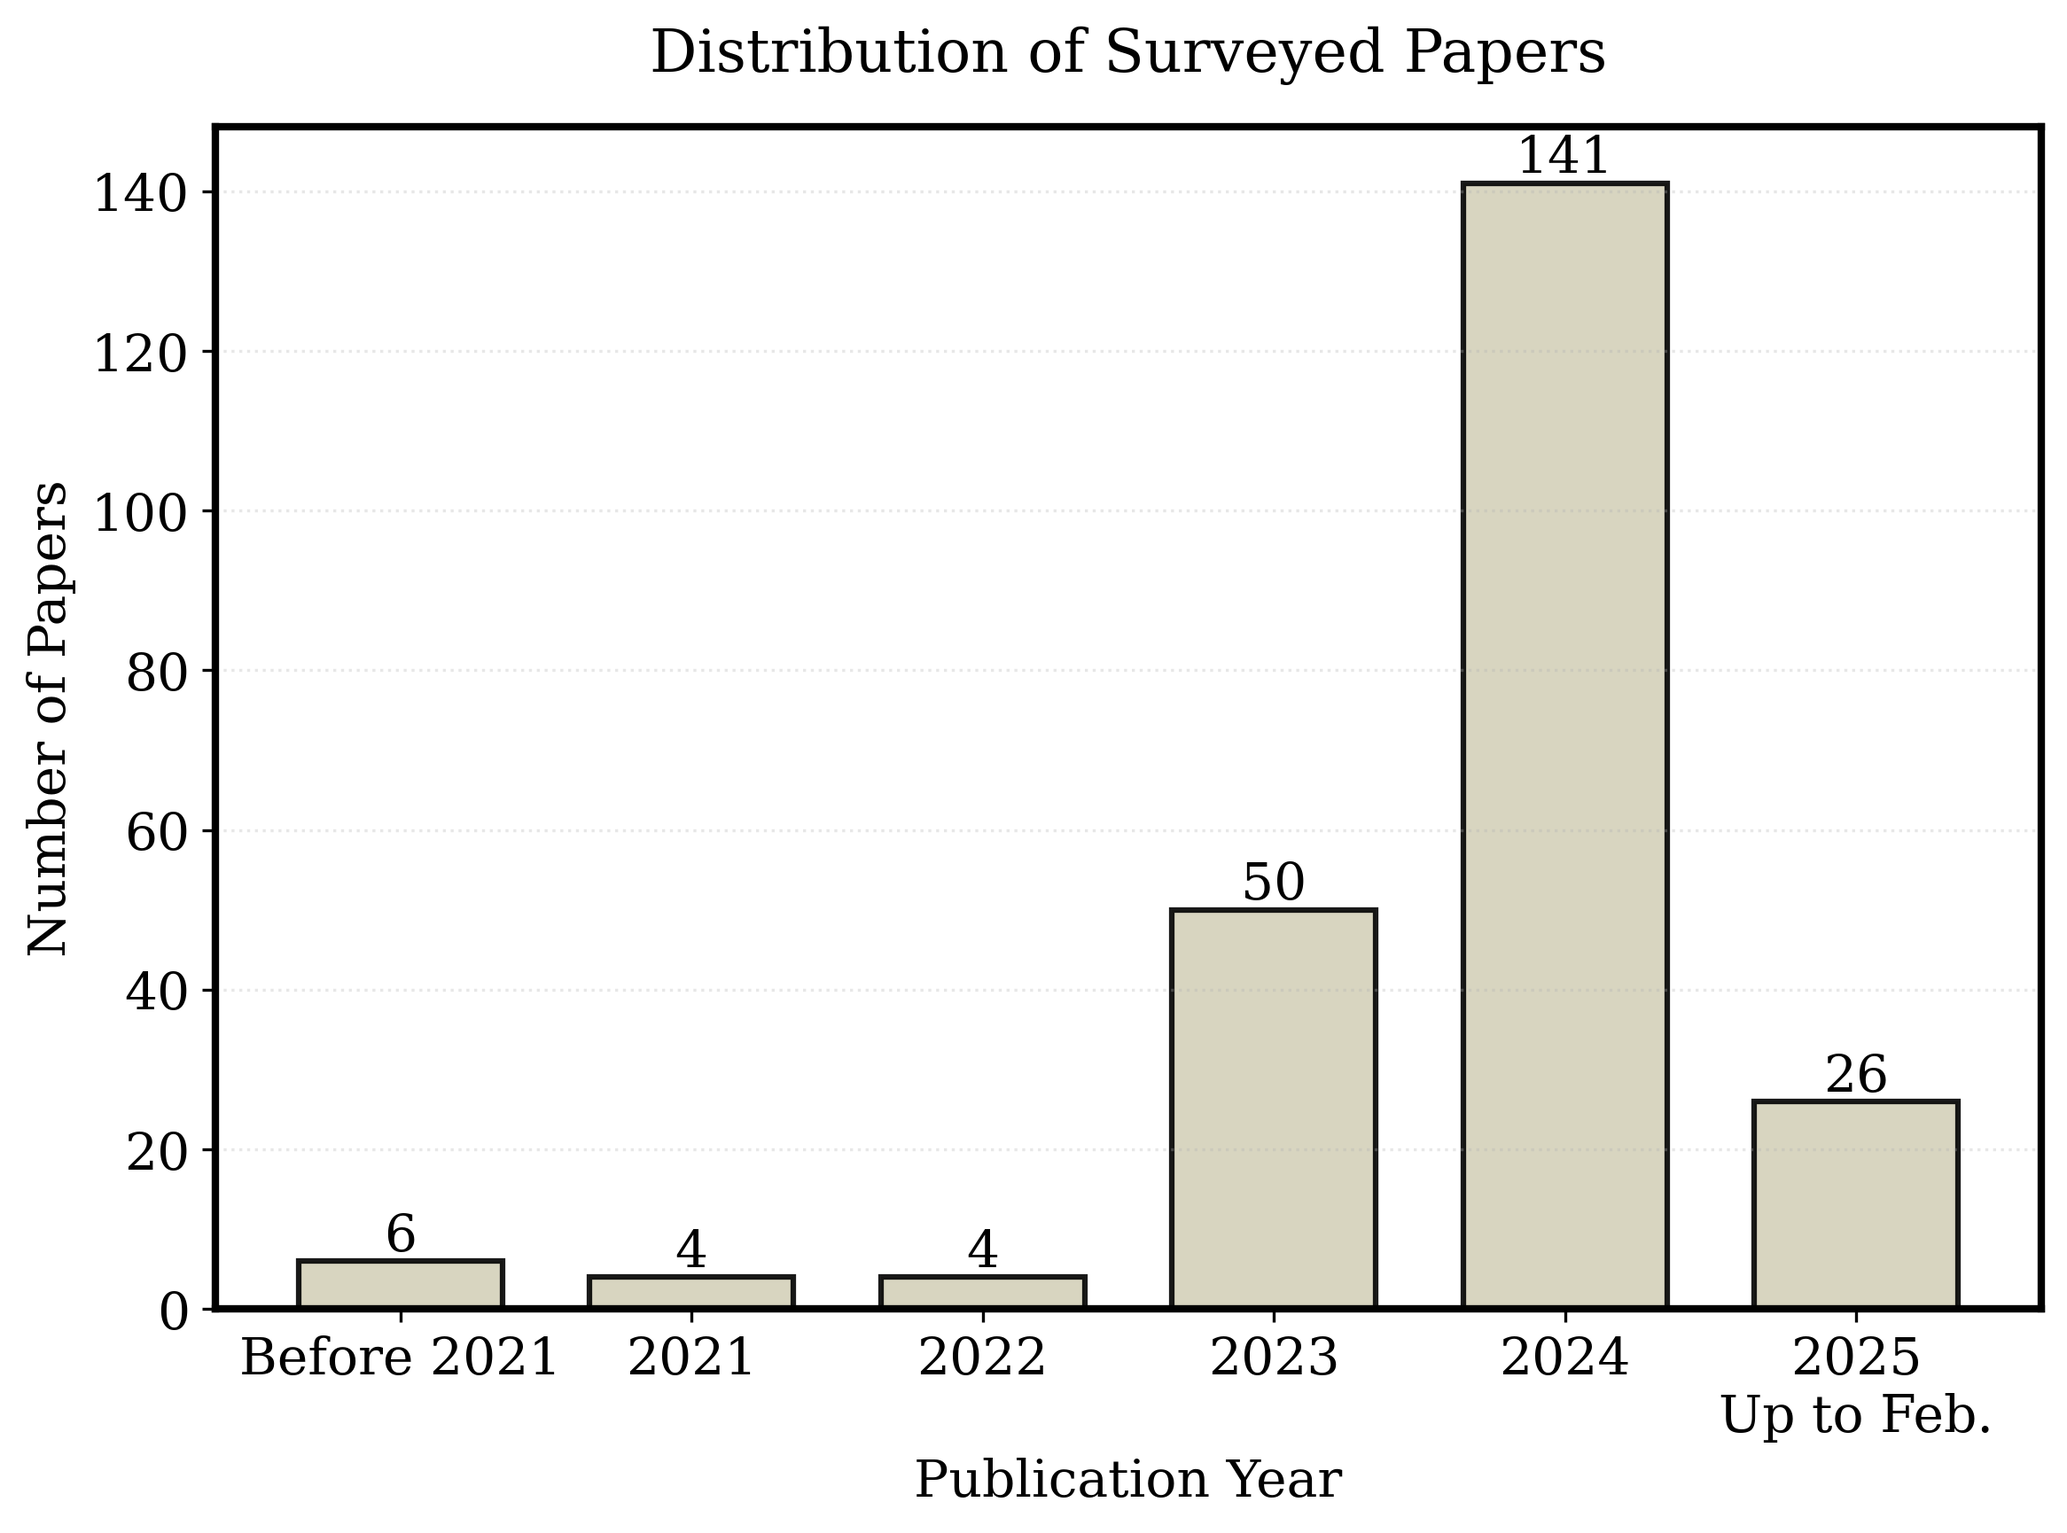
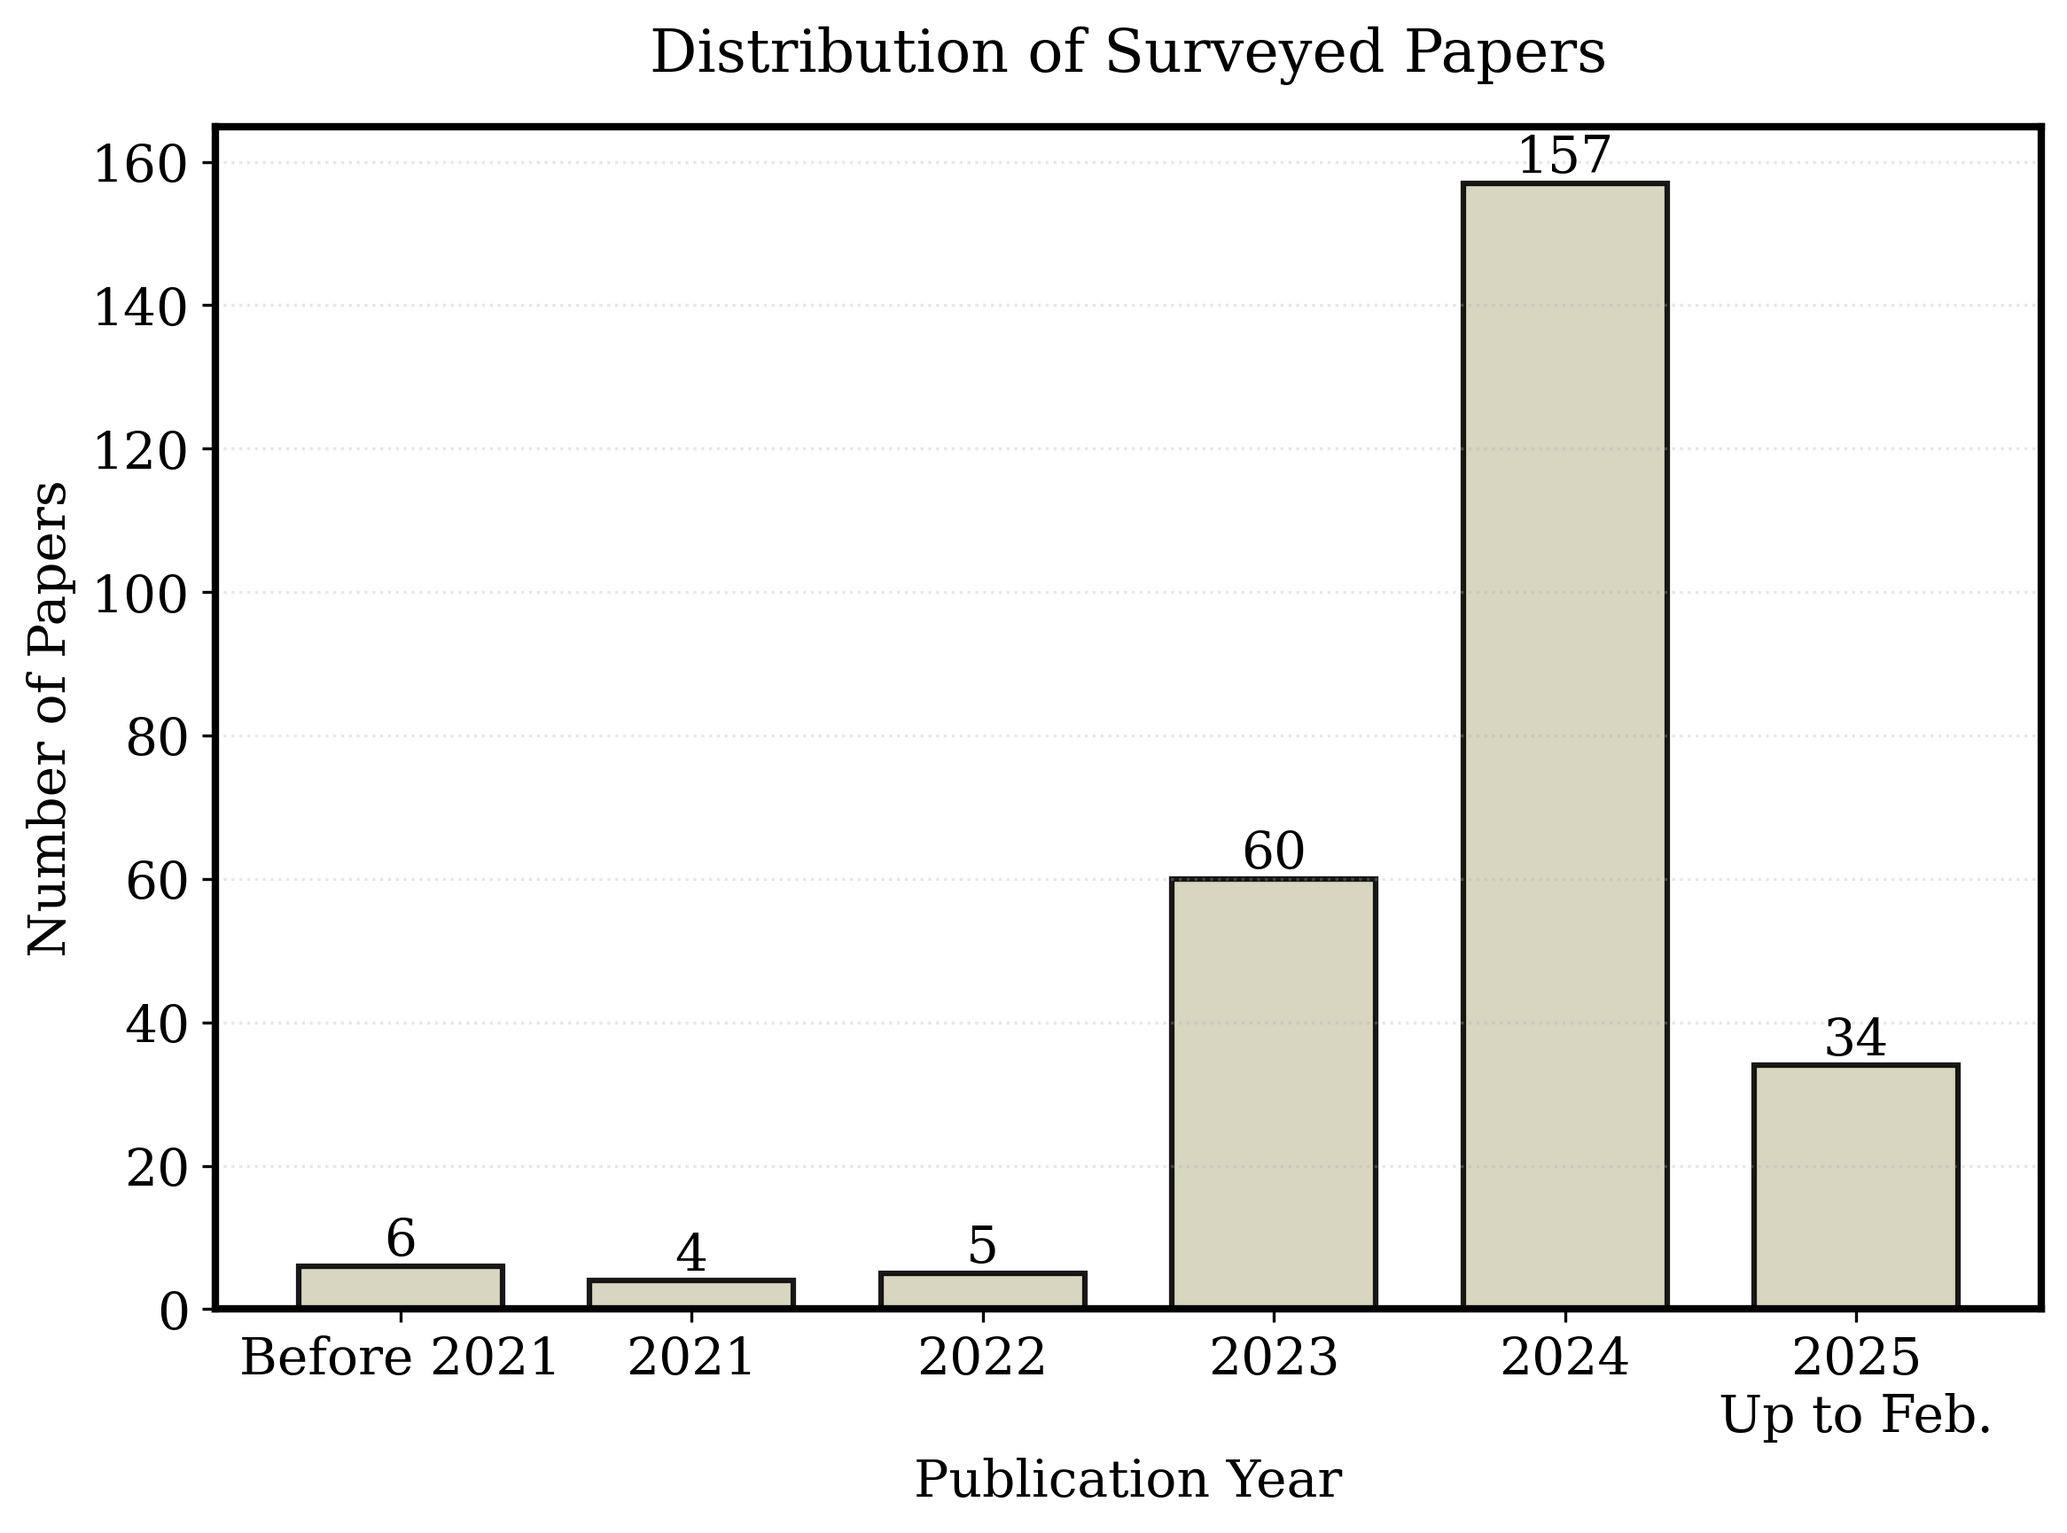
Update Papers

diff --git a/README.md b/README.md
@@ -18,7 +18,7 @@ Our survey covers the rapidly evolving field of LLM agents, with a significant i
 
 ## Paper Collection
 
-| Title | Category | Year | url |
+| Title | Section_or_Category | Year | url |
 | --- | --- | --- | --- |
 | Large Model Based Agents: State-of-the-Art, Cooperation Paradigms, Security and Privacy, and Future Trends  | Introduction | 2024 | [link](https://arxiv.org/abs/2409.14457) |
 | Agent AI: Surveying the Horizons of Multimodal Interaction | Introduction | 2024 | [link](https://arxiv.org/abs/2401.03568) |
@@ -224,23 +224,23 @@ Our survey covers the rapidly evolving field of LLM agents, with a significant i
 | Large Language Models lack essential metacognition for reliable medical reasoning | Applications | 2025 | [link](https://doi.org/10.1038/s41467-024-55628-6) |
 | Balancing autonomy and expertise in autonomous synthesis laboratories | Applications | 2025 | [link](https://doi.org/10.1038/s43588-025-00769-x) |
 | Agent Attacks or Security |  |  |  |
-| DemonAgent: Dynamically Encrypted Multi-Backdoor Implantation Attack on LLM-based Agent  | Security |  | [link](https://arxiv.org/abs/2502.12575) |
-| Personal LLM Agents: Insights and Survey about the Capability, Efficiency and Security | Security |  | [link](https://arxiv.org/abs/2401.05459) |
-| CORBA: Contagious Recursive Blocking Attacks on Multi-Agent Systems Based on Large Language Models  | Security |  | [link](https://arxiv.org/abs/2502.14529) |
-| G-Safeguard: A Topology-Guided Security Lens and Treatment on LLM-based Multi-agent Systems  | Security |  | [link](https://arxiv.org/abs/2502.11127) |
-| AgentHarm: Benchmarking Robustness of LLM Agents on Harmful Tasks | Security |  | [link](https://openreview.net/forum?id=AC5n7xHuR1) |
-| Commercial LLM Agents Are Already Vulnerable to Simple Yet Dangerous Attacks  | Security |  | [link](https://arxiv.org/abs/2502.08586) |
-| PsySafe: A Comprehensive Framework for Psychological-based Attack, Defense, and Evaluation of Multi-agent System Safety  | Security |  | [link](https://arxiv.org/abs/2401.11880) |
-| TrustAgent: Towards Safe and Trustworthy LLM-based Agents  | Security |  | [link](https://arxiv.org/abs/2402.01586) |
-| AI Agents Under Threat: A Survey of Key Security Challenges and Future Pathways | Security |  | [link](https://dl.acm.org/doi/abs/10.1145/3716628) |
-| Watch Out for Your Agents! Investigating Backdoor Threats to LLM-Based Agents  | Security |  | [link](https://proceedings.neurips.cc/paper_files/paper/2024/hash/b6e9d6f4f3428cd5f3f9e9bbae2cab10-Abstract-Conference.html) |
-| R-Judge: Benchmarking Safety Risk Awareness for LLM Agents  | Security |  | [link](https://arxiv.org/abs/2401.10019) |
-| Recent advancements in LLM Red-Teaming: Techniques, Defenses, and Ethical Considerations  | Security |  | [link](https://arxiv.org/abs/2410.09097) |
-| NetSafe: Exploring the Topological Safety of Multi-agent Networks  | Security |  | [link](https://arxiv.org/abs/2410.15686) |
-| A Trembling House of Cards? Mapping Adversarial Attacks against Language Agents  | Security |  | [link](https://arxiv.org/abs/2402.10196) |
-| Prompt Infection: LLM-to-LLM Prompt Injection within Multi-Agent Systems | Security |  |  |
-| Dify | Tools |  | [link](https://github.com/langgenius/dify) |
-| LangChian | Tools |  | [link](https://github.com/langchain-ai/langchain) |
+| DemonAgent: Dynamically Encrypted Multi-Backdoor Implantation Attack on LLM-based Agent  | Security | 2025 | [link](https://arxiv.org/abs/2502.12575) |
+| Personal LLM Agents: Insights and Survey about the Capability, Efficiency and Security | Security | 2024 | [link](https://arxiv.org/abs/2401.05459) |
+| CORBA: Contagious Recursive Blocking Attacks on Multi-Agent Systems Based on Large Language Models  | Security | 2025 | [link](https://arxiv.org/abs/2502.14529) |
+| G-Safeguard: A Topology-Guided Security Lens and Treatment on LLM-based Multi-agent Systems  | Security | 2025 | [link](https://arxiv.org/abs/2502.11127) |
+| AgentHarm: Benchmarking Robustness of LLM Agents on Harmful Tasks | Security | 2025 | [link](https://openreview.net/forum?id=AC5n7xHuR1) |
+| Commercial LLM Agents Are Already Vulnerable to Simple Yet Dangerous Attacks  | Security | 2025 | [link](https://arxiv.org/abs/2502.08586) |
+| PsySafe: A Comprehensive Framework for Psychological-based Attack, Defense, and Evaluation of Multi-agent System Safety  | Security | 2024 | [link](https://arxiv.org/abs/2401.11880) |
+| TrustAgent: Towards Safe and Trustworthy LLM-based Agents  | Security | 2024 | [link](https://arxiv.org/abs/2402.01586) |
+| AI Agents Under Threat: A Survey of Key Security Challenges and Future Pathways | Security | 2025 | [link](https://dl.acm.org/doi/abs/10.1145/3716628) |
+| Watch Out for Your Agents! Investigating Backdoor Threats to LLM-Based Agents  | Security | 2024 | [link](https://proceedings.neurips.cc/paper_files/paper/2024/hash/b6e9d6f4f3428cd5f3f9e9bbae2cab10-Abstract-Conference.html) |
+| R-Judge: Benchmarking Safety Risk Awareness for LLM Agents  | Security | 2024 | [link](https://arxiv.org/abs/2401.10019) |
+| Recent advancements in LLM Red-Teaming: Techniques, Defenses, and Ethical Considerations  | Security | 2024 | [link](https://arxiv.org/abs/2410.09097) |
+| NetSafe: Exploring the Topological Safety of Multi-agent Networks  | Security | 2024 | [link](https://arxiv.org/abs/2410.15686) |
+| A Trembling House of Cards? Mapping Adversarial Attacks against Language Agents  | Security | 2024 | [link](https://arxiv.org/abs/2402.10196) |
+| Prompt Infection: LLM-to-LLM Prompt Injection within Multi-Agent Systems | Security | 2025 |  |
+| Dify | Tools | 2023 | [link](https://github.com/langgenius/dify) |
+| LangChian | Tools | 2023 | [link](https://github.com/langchain-ai/langchain) |
 | Ethical and social risks of harm from Language Models | Ethics | 2021 | [link](https://arxiv.org/abs/2112.04359) |
 | On the Dangers of Stochastic Parrots: Can Language Models Be Too Big? 🦜  | Ethics | 2021 | [link](https://dl.acm.org/doi/10.1145/3442188.3445922) |
 | Medical large language models are vulnerable to data-poisoning attacks  | Ethics | 2025 | [link](https://www.nature.com/articles/s41591-024-03445-1) |
@@ -272,68 +272,26 @@ Our survey covers the rapidly evolving field of LLM agents, with a significant i
 | Mitigating the Alignment Tax of RLHF  | Agent Evolution | 2024 | [link](https://aclanthology.org/2024.emnlp-main.35.pdf) |
 | Self-Rewarding Language Models  | Agent Evolution | 2024 | [link](https://arxiv.org/pdf/2401.10020) |
 | CREAM: Consistency Regularized Self-Rewarding Language Models | Agent Evolution | 2025 | [link](https://openreview.net/pdf?id=Vf6RDObyEF) |
-| Self-Evolved Diverse Data Sampling for Efficient Instruction Tuning  | Agent Evolution |  |  |
-| Principle-Driven Self-Alignment of Language Models from Scratch with Minimal Human Supervision  | Agent Evolution |  |  |
-| Selective Reflection-Tuning: Student-Selected Data Recycling for LLM Instruction-Tuning  | Agent Evolution |  |  |
-| V-STaR: Training Verifiers for Self-Taught Reasoners  | Agent Evolution |  |  |
-| Step-On-Feet Tuning: Scaling Self-Alignment of LLMs via Bootstrapping  | Agent Evolution |  |  |
-| SciInstruct: a Self-Reflective Instruction Annotated Dataset for Training Scientific Language Models  | Agent Evolution |  |  |
-| Chain-of-Thought Prompting Elicits Reasoning in Large Language Models  | Agent Evolution |  |  |
-| STaR: Self-Taught Reasoner Bootstrapping Reasoning With Reasoning  | Agent Evolution |  |  |
-| SELFEVOLVE: A Code Evolution Framework via Large Language Models  | Agent Evolution |  |  |
-| Think-in-Memory: Recalling and Post-thinking Enable LLMs with Long-Term Memory  | Agent Evolution |  |  |
-| Failures Pave the Way: Enhancing Large Language Models through Tuning-free Rule Accumulation  | Agent Evolution |  |  |
-| Large Language Models Can Self-Improve  | Agent Evolution |  |  |
-| MoT: Memory-of-Thought Enables ChatGPT to Self-Improve  | Agent Evolution |  |  |
-| React: Synergizing reasoning and acting in language models | Agent Evolution |  |  |
-| Tree of Thoughts: Deliberate Problem Solving with Large Language Models  | Agent Evolution |  |  |
-| MemoryBank: Enhancing Large Language Models with Long-Term Memory  | Agent Evolution |  |  |
-| Graph of Thoughts: Solving Elaborate Problems with Large Language Models  | Agent Evolution |  |  |
-| AUTOACT: Automatic Agent Learning from Scratch for QA via Self-Planning  | Agent Evolution |  |  |
-| Debug like a Human: A Large Language Model Debugger via Verifying Runtime Execution Step by Step  | Agent Evolution |  |  |
-| SOTOPIA-π: Interactive Learning of Socially Intelligent Language Agents  | Agent Evolution |  |  |
-| Trial and Error: Exploration-Based Trajectory Optimization  | Agent Evolution |  |  |
-| Bootstrapping LLM-based Task-Oriented Dialogue Agents via Self-Talk  | Agent Evolution |  |  |
-| In-Memory Learning: A Declarative Learning Framework for Large Language Models  | Agent Evolution |  |  |
-| MemGPT: Towards LLMs as Operating Systems  | Agent Evolution |  |  |
-| ReAct Meets ActRe: Autonomous Annotation of Agent Trajectories for Contrastive Self-Training  | Agent Evolution |  |  |
-| SALMON: Self-alignment with instructable reward models | Agent Evolution |  |  |
-| Learning by Self-Explaining  | Agent Evolution |  |  |
-| KnowAgent: Knowledge-Augmented Planning for LLM-Based Agents  | Agent Evolution |  |  |
-| SOLID: Self-seeding and Multi-intent Self-instructing LLMs for Generating Intent-aware Information-Seeking Dialogs  | Agent Evolution |  |  |
-| Can LLMs Learn from Previous Mistakes? Investigating LLMs’ Errors to Boost for Reasoning  | Agent Evolution |  |  |
-| Direct Large Language Model Alignment Through Self-Rewarding Contrastive Prompt Distillation  | Agent Evolution |  |  |
-| Large Language Models are Superpositions of All Characters: Attaining Arbitrary Role-play via Self-Alignment  | Agent Evolution |  |  |
-| Self-Contrast: Better Reflection Through Inconsistent Solving Perspectives  | Agent Evolution |  |  |
-| GRATH: Gradual Self-Truthifying for Large Language Models  | Agent Evolution |  |  |
-| Self-Rewarding Language Models  | Agent Evolution |  |  |
-| RLCD: Reinforcement learning from contrastive distillation for LM alignment | Agent Evolution |  |  |
-| Self-Play Fine-Tuning Converts Weak Language Models to Strong Language Models  | Agent Evolution |  |  |
-| Judging LLM-as-a-Judge with MT-Bench and Chatbot Arena  | Agent Evolution |  |  |
-| SELF-REFINE:  Iterative Refinement with Self-Feedback  | Agent Evolution |  |  |
-| Self-Alignment for Factuality: Mitigating Hallucinations in LLMs via Self-Evaluation  | Agent Evolution |  |  |
-| LANGUAGE MODEL SELF-IMPROVEMENT BY REIN- FORCEMENT LEARNING CONTEMPLATION  | Agent Evolution |  |  |
-| Reflexion: an autonomous agent with dynamic memory and self-reflection  | Agent Evolution |  |  |
-| SELFEVOLVE: A Code Evolution Framework via Large Language Models  | Agent Evolution |  |  |
-| RoboCat: A Self-Improving Generalist Agent for Robotic Manipulation  | Agent Evolution |  |  |
-| LLMs in the Imaginarium:  Tool Learning through Simulated Trial and Error  | Agent Evolution |  |  |
-| SInViG:  A Self-Evolving Interactive Visual Agent for Human-Robot Interaction  | Agent Evolution |  |  |
-| CRITIC: LARGE LANGUAGE MODELS CAN SELF- CORRECT WITH TOOL-INTERACTIVE CRITIQUING  | Agent Evolution |  |  |
-| TEACHING LARGE LANGUAGE MODELS TO SELF- DEBUG  | Agent Evolution |  |  |
-| SELF-INSTRUCT: Aligning Language Models with Self-Generated Instructions  | Agent Evolution |  |  |
-| Large Language Models are Better Reasoners with Self-Verification  | Agent Evolution |  |  |
-| CODET: CODE GENERATION WITH GENERATED TESTS  | Agent Evolution |  |  |
-| SELF-CONSISTENCY IMPROVES CHAIN OF THOUGHT REASONING IN LANGUAGE MODELS  | Agent Evolution |  |  |
-| Beyond Human Data: Scaling Self-Training for Problem- Solving with Language Models  | Agent Evolution |  |  |
-| Constitutional AI: Harmlessness from AI Feedback  | Agent Evolution |  |  |
-| SELF: SELF-EVOLUTION WITH LANGUAGE FEED- BACK  | Agent Evolution |  |  |
-| Self-Verification Improves Few-Shot Clinical Information Extraction  | Agent Evolution |  |  |
-| Iterative Translation Refinement with Large Language Models  | Agent Evolution |  |  |
-| ISR-LLM: Iterative Self-Refined Large Language Model for Long-Horizon Sequential Task Planning  | Agent Evolution |  |  |
-| ProAgent: Building Proactive Cooperative Agents with Large Language Models  | Agent Evolution |  |  |
-| Evolving Diverse Red-team Language Models in Multi-round Multi-agent Games  | Agent Evolution |  |  |
-| Agent Planning with World Knowledge Model  | Agent Evolution |  |  |
-| Refining Guideline Knowledge for Agent Planning Using Textgrad  | Agent Evolution |  |  |
+| Self-Evolved Diverse Data Sampling for Efficient Instruction Tuning  | Agent Evolution | 2023 | [link](https://arxiv.org/pdf/2311.08182) |
+| V-STaR: Training Verifiers for Self-Taught Reasoners  | Agent Evolution | 2024 | [link](https://openreview.net/pdf?id=stmqBSW2dV) |
+| STaR: Self-Taught Reasoner Bootstrapping Reasoning With Reasoning  | Agent Evolution | 2022 | [link](https://openreview.net/pdf?id=_3ELRdg2sgI) |
+| SELFEVOLVE: A Code Evolution Framework via Large Language Models  | Agent Evolution | 2023 | [link](https://arxiv.org/pdf/2306.02907) |
+| KnowAgent: Knowledge-Augmented Planning for LLM-Based Agents  | Agent Evolution | 2025 | [link](https://arxiv.org/pdf/2403.03101) |
+| RLCD: Reinforcement learning from contrastive distillation for LM alignment | Agent Evolution | 2024 | [link](https://openreview.net/pdf?id=v3XXtxWKi6) |
+| LANGUAGE MODEL SELF-IMPROVEMENT BY REIN- FORCEMENT LEARNING CONTEMPLATION  | Agent Evolution | 2024 | [link](https://openreview.net/pdf?id=38E4yUbrgr) |
+| SELF-INSTRUCT: Aligning Language Models with Self-Generated Instructions  | Agent Evolution | 2023 | [link](https://aclanthology.org/2023.acl-long.754.pdf) |
+| Large Language Models are Better Reasoners with Self-Verification  | Agent Evolution | 2023 | [link](https://aclanthology.org/2023.findings-emnlp.167.pdf) |
+| CODET: CODE GENERATION WITH GENERATED TESTS  | Agent Evolution | 2023 | [link](https://openreview.net/pdf?id=ktrw68Cmu9c) |
+| ProAgent: Building Proactive Cooperative Agents with Large Language Models  | Agent Evolution | 2024 | [link](https://ojs.aaai.org/index.php/AAAI/article/view/29710/31219) |
+| Evolving Diverse Red-team Language Models in Multi-round Multi-agent Games  | Agent Evolution | 2023 | [link](https://arxiv.org/pdf/2310.00322) |
+| Agent Planning with World Knowledge Model  | Agent Evolution | 2024 | [link](https://openreview.net/pdf?id=j6kJSS9O6I) |
+| Refining Guideline Knowledge for Agent Planning Using Textgrad  | Agent Evolution | 2024 | [link](https://www.computer.org/csdl/proceedings-article/ickg/2024/088200a102/24sKrMSCxr2) |
+| Improving Factuality and Reasoning in Language Models through Multiagent Debate | Agent Evolution | 2023 | [link](https://arxiv.org/abs/2305.14325) |
+| Encouraging Divergent Thinking in Large Language Models through Multi-Agent Debate | Agent Evolution | 2024 | [link](https://arxiv.org/abs/2305.19118) |
+| CAMEL: Communicative Agents for "Mind" Exploration of Large Language Model Society | Agent Evolution | 2023 | [link](https://arxiv.org/pdf/2303.17760) |
+| LLMs in the Imaginarium: Tool Learning through Simulated Trial and Error | Agent Evolution | 2024 | [link](https://aclanthology.org/2024.acl-long.570/) |
+
+
 ## Citation
 
 If you find our survey helpful, please consider citing our work:
